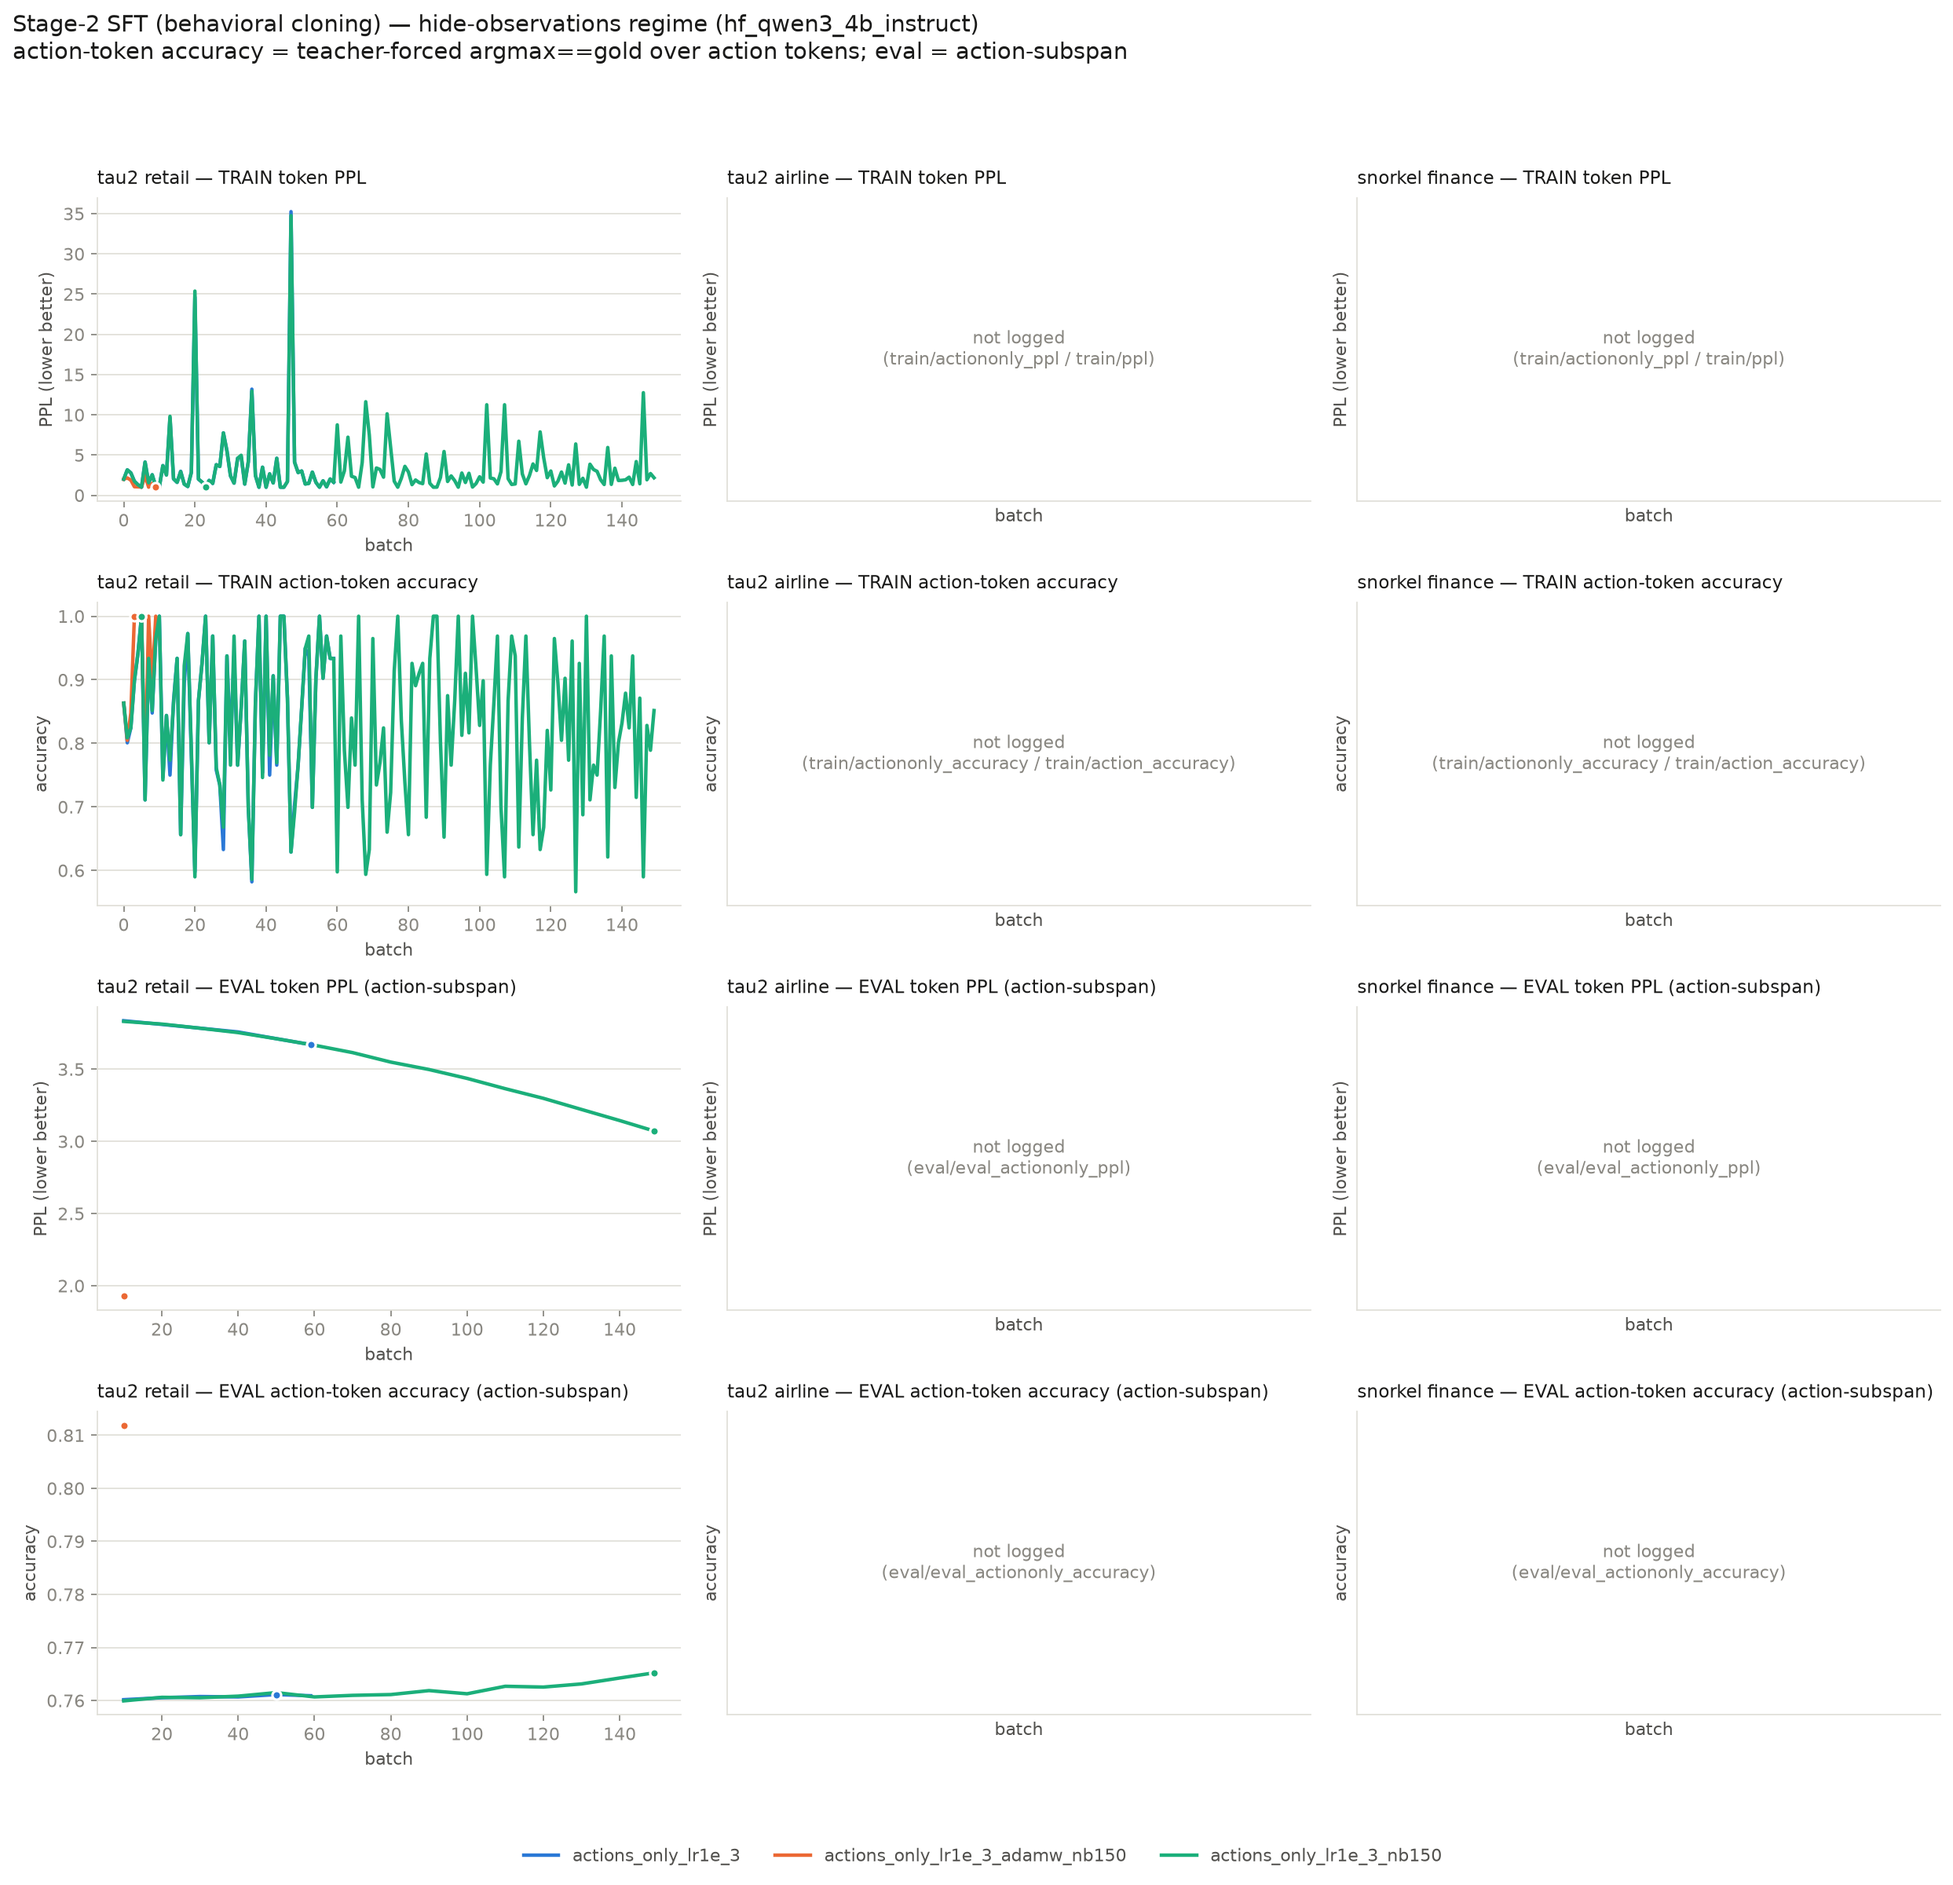
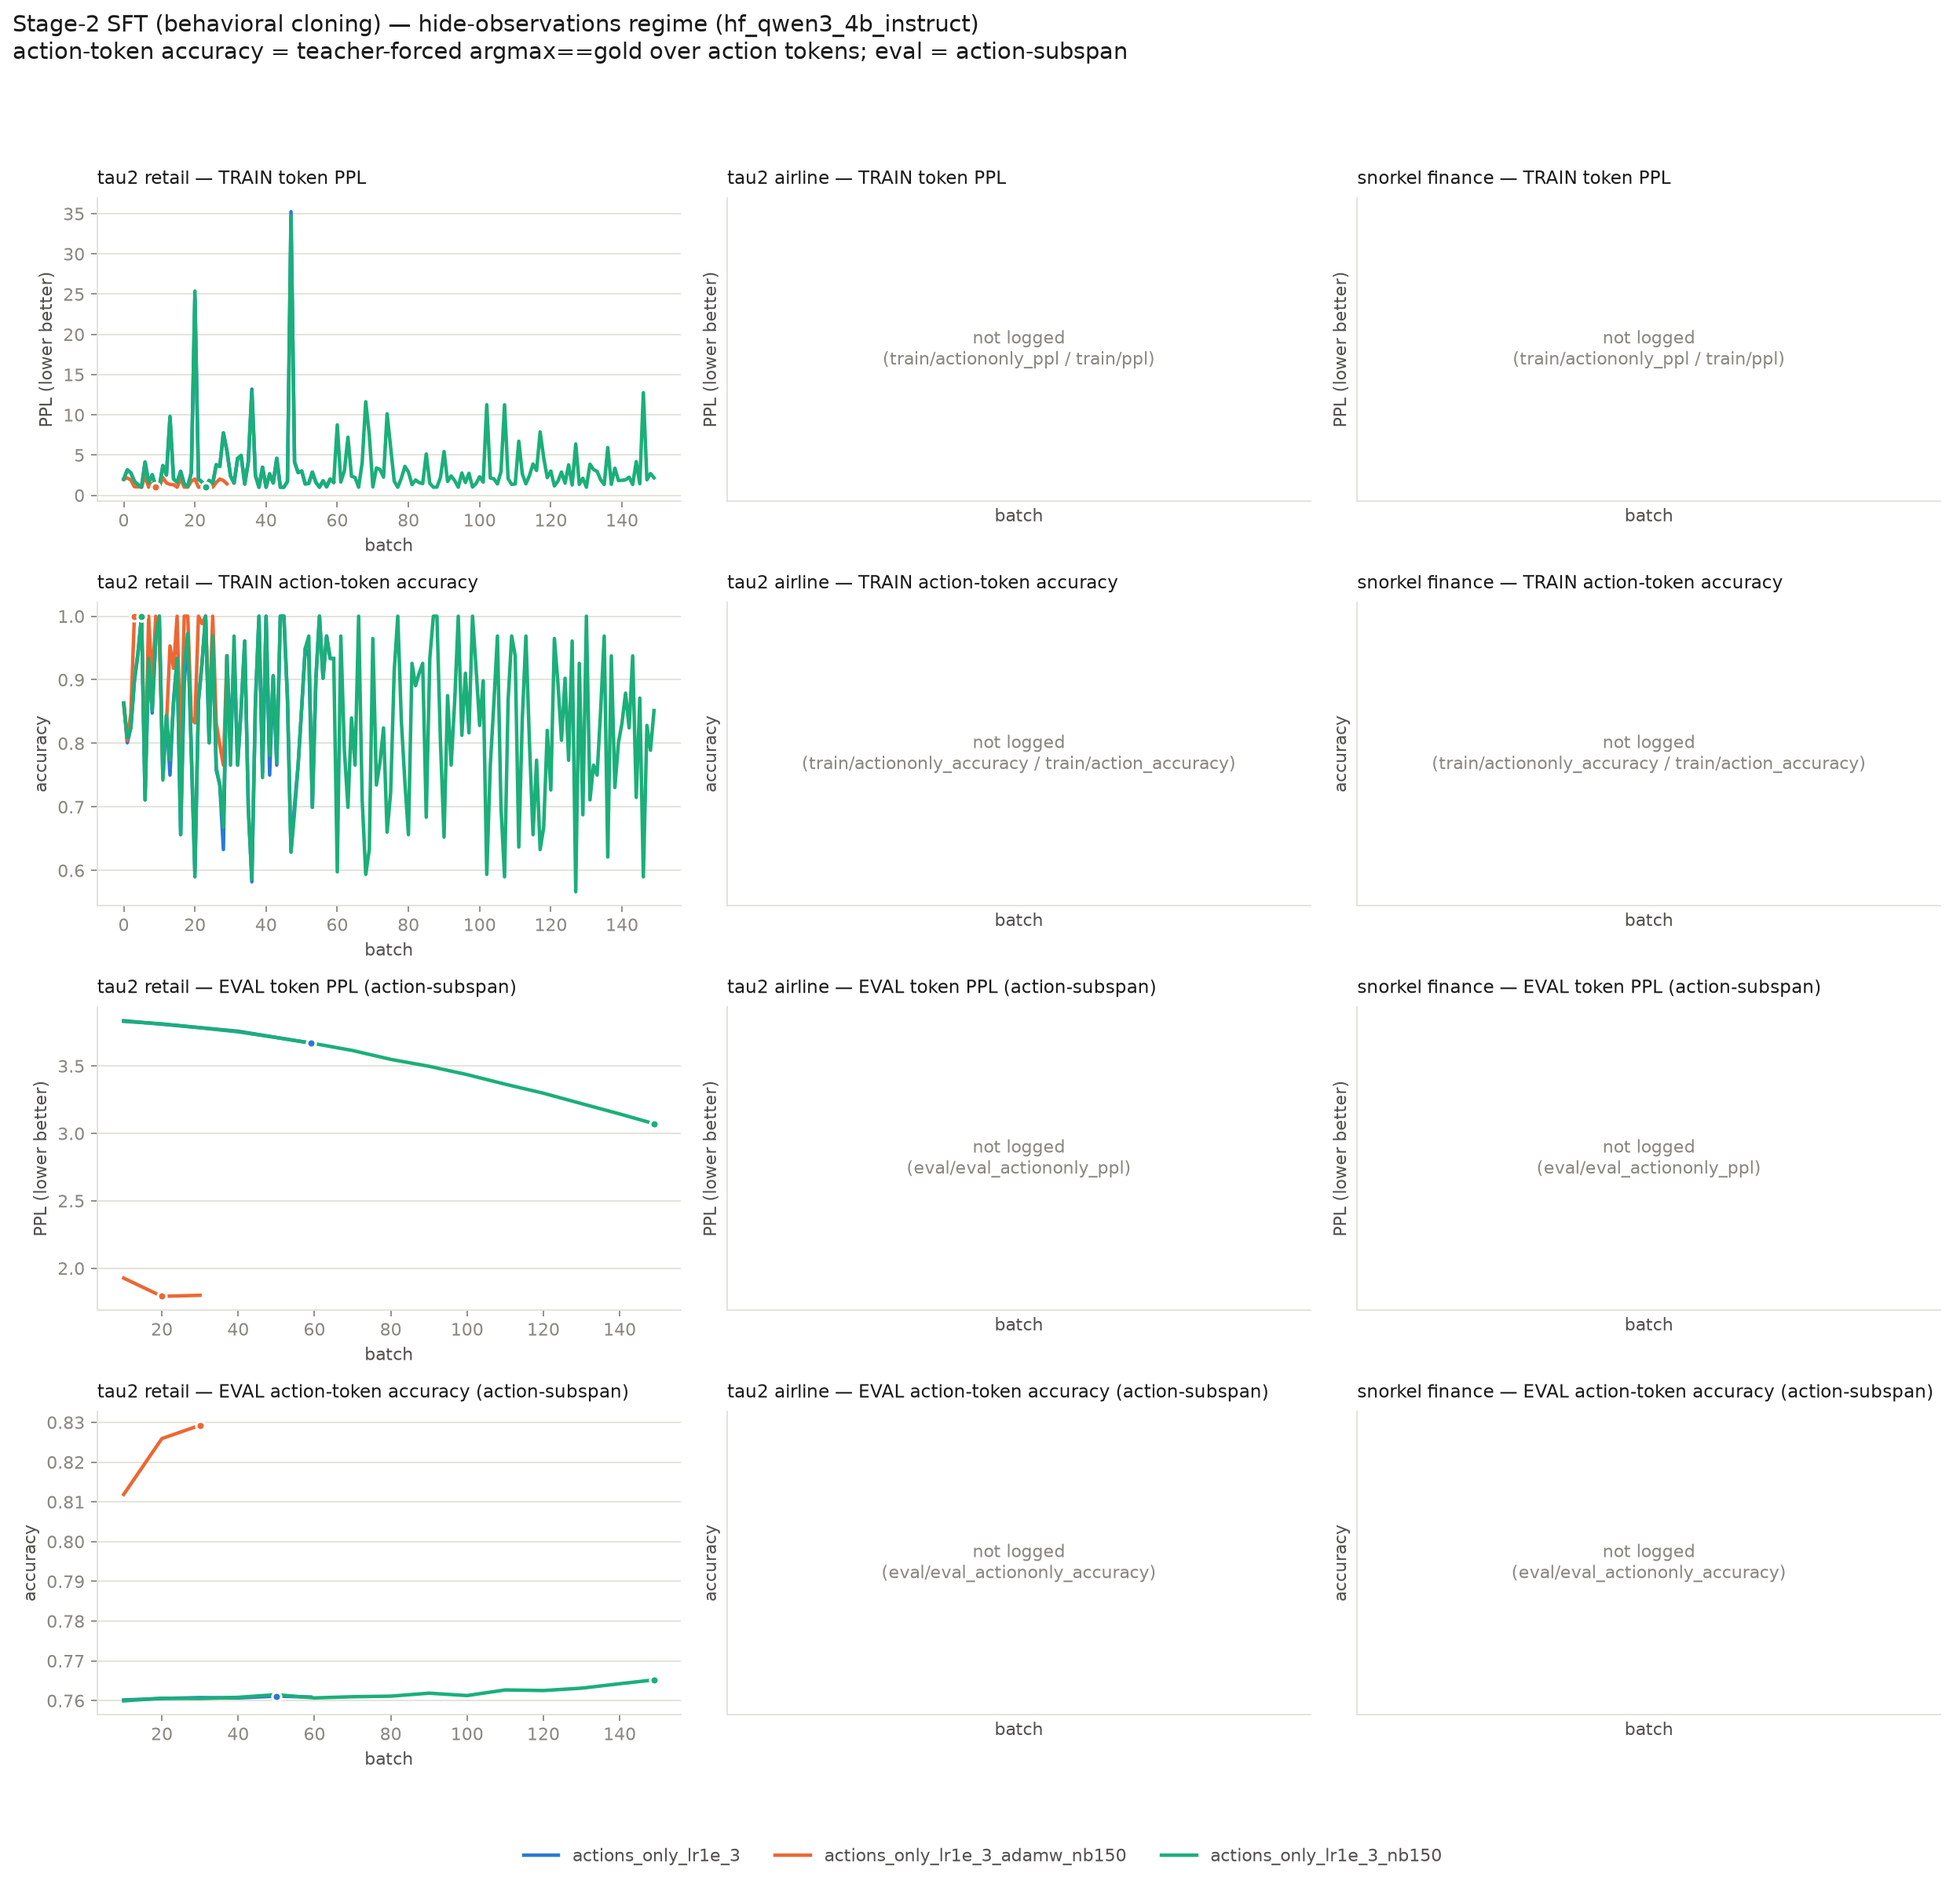
auto: SFT LR sweep results snapshot

diff --git a/notes/cc-3.0-retail_sft_results.md b/notes/cc-3.0-retail_sft_results.md
@@ -19,7 +19,7 @@ for wordiness rather than for mispredicting the action, which inverts the rankin
 | thoughts_policy | full | 3.0003 | 0.8038 | 59 | 3.4046 | 0.7697 | 59 | 1.0355 |
 | thoughts_base | hide | 3.1735 | 0.7819 | 59 | 3.7098 | 0.7454 | 59 | 0.9361 |
 | thoughts_base | full | 2.9999 | 0.8035 | 30 | 3.4093 | 0.7717 | 59 | 0.6225 |
-| actions_only_lr1e_3_adamw_nb150 | hide | 1.9265 | 0.8119 | 10 | 1.9265 | 0.8119 | 10 | 0.0611 |
+| actions_only_lr1e_3_adamw_nb150 | hide | 1.7915 | 0.8259 | 20 | 1.7915 | 0.8259 | 20 | 0.3505 |
 | actions_only_lr1e_3 | hide | 3.6702 | 0.7609 | 59 | 3.6702 | 0.7609 | 59 | 0.4756 |
 | actions_only_lr1e_3_nb150 | hide | 3.0719 | 0.7652 | 149 | 3.0719 | 0.7652 | 149 | 0.7723 |
 | actions_only_lr1e_4 | hide | 3.8346 | 0.7606 | 50 | 3.8346 | 0.7606 | 50 | 0.5078 |
@@ -52,7 +52,7 @@ that saved step:
 | thoughts_policy | full | 3.0003 | 0.8038 |
 | thoughts_base | hide | 3.1735 | 0.7819 |
 | thoughts_base | full | 3.0008 | 0.8030 |
-| actions_only_lr1e_3_adamw_nb150 | hide | 1.9265 | 0.8119 |
+| actions_only_lr1e_3_adamw_nb150 | hide | 1.7915 | 0.8259 |
 | actions_only_lr1e_3 | hide | 3.6702 | 0.7609 |
 | actions_only_lr1e_3_nb150 | hide | 3.0719 | 0.7652 |
 | actions_only_lr1e_4 | hide | 3.8346 | 0.7606 |

diff --git a/notes/cc-5.0-sft-lr-investigation.md b/notes/cc-5.0-sft-lr-investigation.md
@@ -362,13 +362,13 @@ across retail+airline was 0.077. Only more rollouts per task fix that -- more ar
 ```
 arm                                                  reg     b   eval ppl first->last      Δ%     acc  train ao ppl
 ----------------------------------------------------------------------------------------------------------------------
-retail/actions_only_lr1e_3_adamw_nb150               hide   10     1.9265 ->   1.9265   0.00%  0.8119        1.0625  <running>
+retail/actions_only_lr1e_3_adamw_nb150               hide   30     1.9265 ->   1.7990   6.62%  0.8293        1.4219  <running>
 retail/actions_only_lr1e_3                           hide   59     3.8355 ->   3.6702   4.31%  0.7609        1.6094
 retail/actions_only_lr1e_3_nb150                     hide  149     3.8307 ->   3.0719  19.81%  0.7652        2.1719
 
 2/3 arms complete   (Δ% = held-out action-subspan PPL improvement, higher is better)
 ```
-_last refreshed: 2026-08-29 16:00_
+_last refreshed: 2026-08-29 16:20_
 <!--/RESULTS-->
 
 ## Infrastructure
